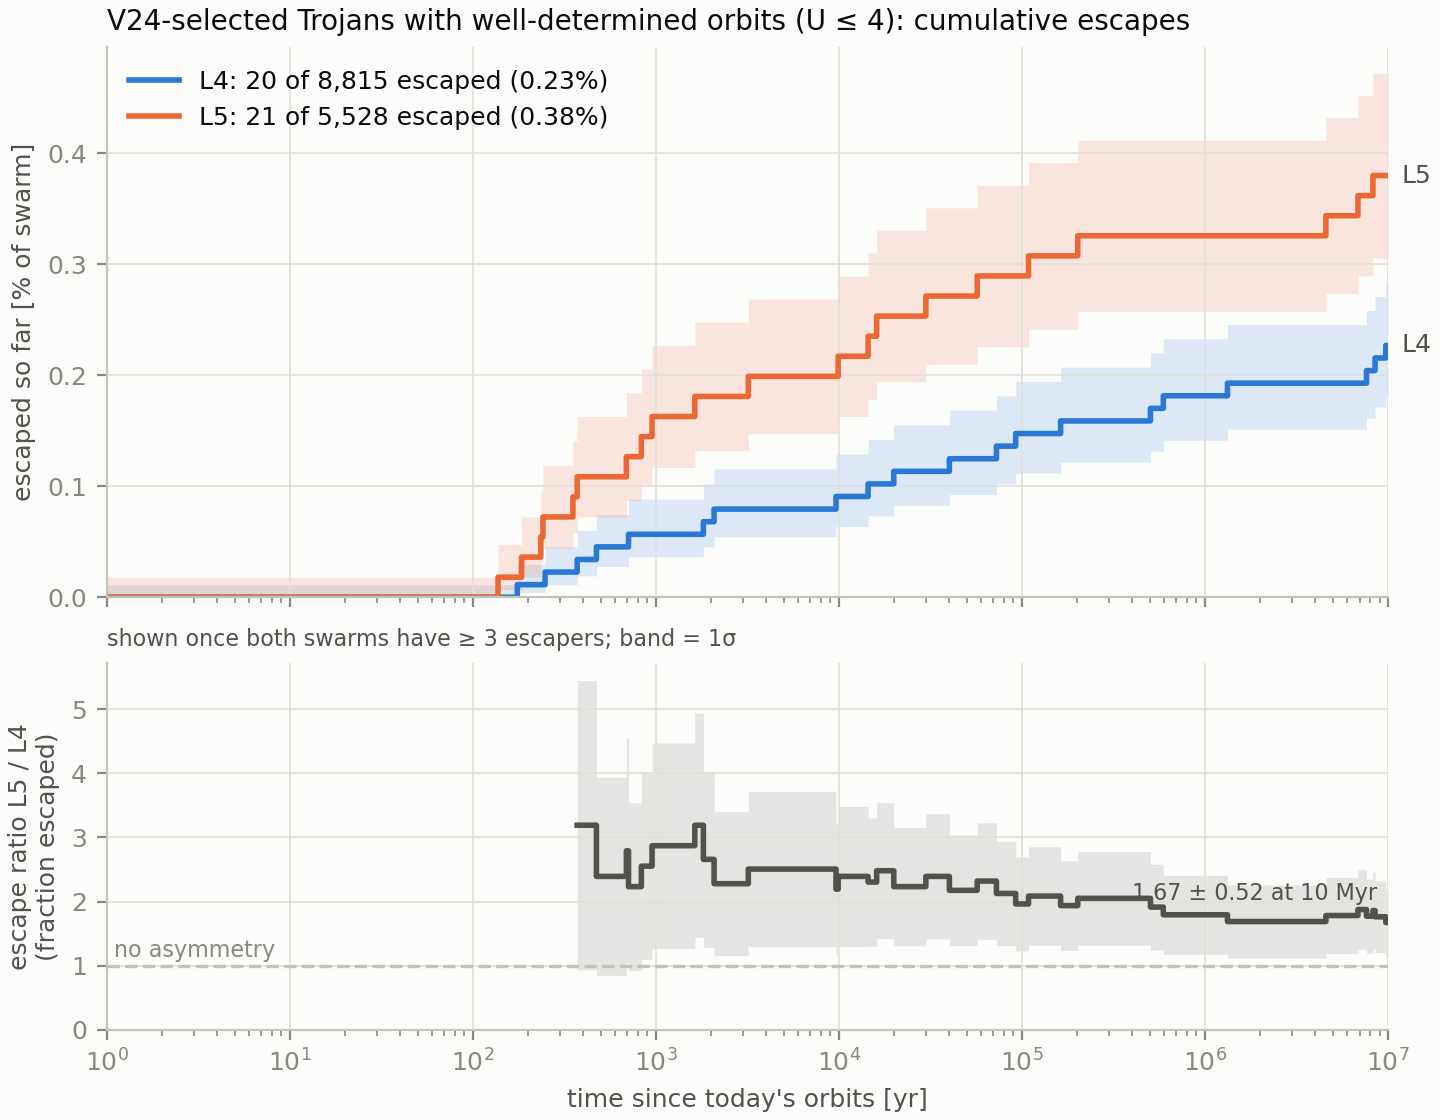
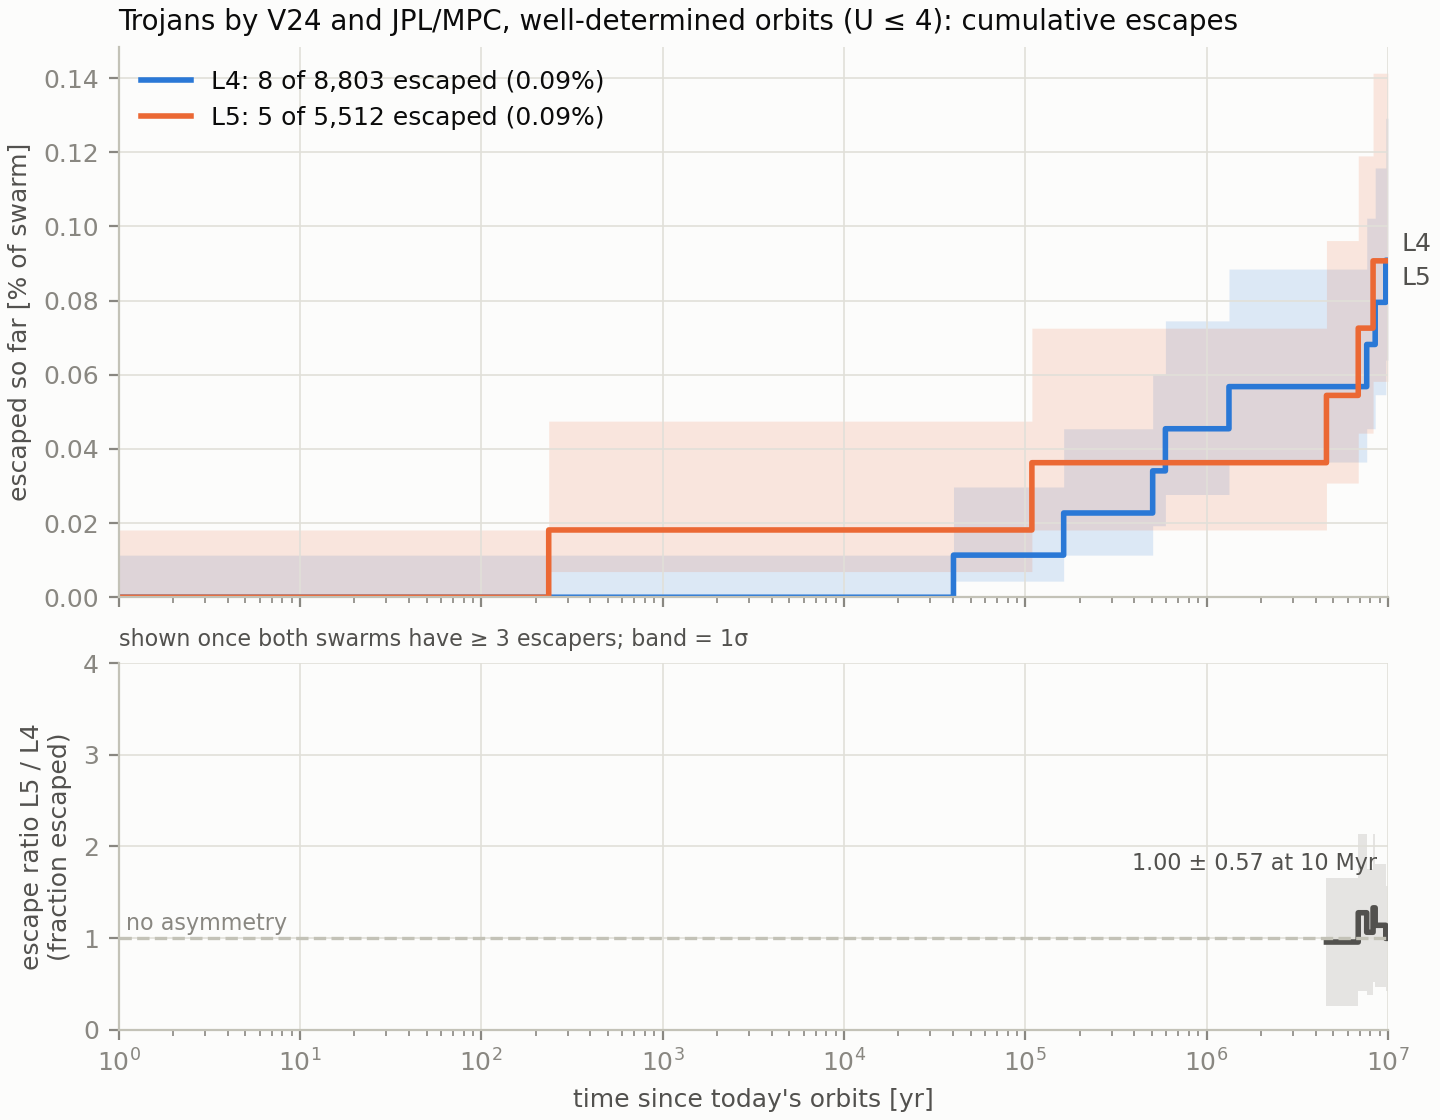
Redraw the U ladder on objects every catalogue calls a Trojan
Without the 28 comet-like V24-box-only objects, no cut up to U <= 7 shows an
L5/L4 escape asymmetry (1.00 +- 0.57 at U <= 4). Per-U escape is pooled across
swarms, since each U value holds too few escapers for a per-swarm ratio.

diff --git a/campaign/scripts/s3_uladder.py b/campaign/scripts/s3_uladder.py
@@ -2,11 +2,18 @@
 
 Reads a merged run and writes to campaign/reports/<run_id>/:
   fig_grand.png     cumulative % of each swarm escaped vs log time, with the running
-                    escape ratio L5/L4 underneath (V24-selected, U <= 4)
-  fig_uladder.png   escape fraction per U value (all H, and 14 < H < 15.5 to hold size
-                    fixed), per cumulative cut U <= k, the ratio L5/L4 per cut, and the
-                    number of objects per U
+                    escape ratio L5/L4 underneath (U <= 4)
+  fig_uladder.png   (a) escape fraction per U value, L4 and L5 pooled (all H, and
+                    14 < H < 15.5 to hold size fixed): where orbit error takes over;
+                    (b) the ratio L5/L4 for each cumulative cut U <= k: whether the cut
+                    drives the result; (c) the number of objects per U
   uladder.csv       the numbers behind fig_uladder
+
+Base sample: V24-selected objects that JPL (class TJN) or the MPC also call Trojans.
+Objects only V24's element box admits are comet-like interlopers (e 0.31-0.60, T_J
+2.25-2.82) that all leave within a few kyr, and would otherwise dominate the ratio
+(docs/INITIAL_CONDITIONS_KS.md). Per-U L5/L4 ratios are not drawn: each U value holds
+0-4 escapers per swarm, so they would be noise.
 
 U is the JPL orbit condition code (the MPC uncertainty parameter), see
 docs/CATALOGUE_DEFINITIONS.md. Escape is the first entry within 2.1 Hill radii of a
@@ -69,7 +76,7 @@ def ratio(k4, n4, k5, n5):
 
 def load(run_id):
     ev = pd.read_parquet(paths.merged_dir(run_id) / "events.parquet")
-    ev = ev[ev["v24_selected"]].copy()
+    ev = ev[ev["v24_selected"] & (ev["label_region"] != "V24")].copy()
     ev["U"] = pd.to_numeric(ev["condition_code"], errors="coerce").astype(int)
     ev["esc"] = ev["t_hill_record"].notna()
     t_end = json.loads((paths.run_dir(run_id) / "settings.json").read_text())["t_end_yr"]
@@ -81,6 +88,10 @@ def ladder(ev) -> pd.DataFrame:
     rows = []
     for u in U_VALUES:
         row = {"U": u}
+        for tag, mask in [("pool_", ev["U"] == u), ("pool_Hfix_", fixed_h & (ev["U"] == u))]:
+            n, k = int(mask.sum()), int(ev.loc[mask, "esc"].sum())
+            f, lo, hi = wilson(k, n)
+            row.update({f"{tag}n": n, f"{tag}k": k, f"{tag}f": f, f"{tag}lo": lo, f"{tag}hi": hi})
         for s in SWARMS:
             sw = ev["swarm"] == s
             for tag, mask in [("", sw & (ev["U"] == u)), ("Hfix_", sw & fixed_h & (ev["U"] == u)),
@@ -109,10 +120,14 @@ def fig_grand(ev, t_end, out):
         top.fill_between(grid, 100 * band[:, 1], 100 * band[:, 2], step="post", color=SWARM_COLOR[s], alpha=0.15, lw=0)
         top.step(grid, 100 * k / n, where="post", color=SWARM_COLOR[s], lw=2,
                  label=f"{s}: {k[-1]} of {n:,} escaped ({100 * k[-1] / n:.2f}%)")
-        top.annotate(s, (grid[-1], 100 * k[-1] / n), xytext=(5, 0), textcoords="offset points",
-                     va="center", color=TEXT_2, fontsize=9)
+    y4, y5 = (100 * curves[s][0][-1] / curves[s][1] for s in SWARMS)
+    close = abs(y4 - y5) < 0.05 * max(y4, y5, 1e-9)
+    for s, y, dy in [("L4", y4, -6 if close and y4 <= y5 else 6 if close else 0),
+                     ("L5", y5, -6 if close and y5 < y4 else 6 if close else 0)]:
+        top.annotate(s, (grid[-1], y), xytext=(5, dy), textcoords="offset points", va="center", color=TEXT_2,
+                     fontsize=9)
     top.set_ylabel("escaped so far [% of swarm]")
-    top.set_title("V24-selected Trojans with well-determined orbits (U ≤ 4): cumulative escapes", loc="left")
+    top.set_title("Trojans by V24 and JPL/MPC, well-determined orbits (U ≤ 4): cumulative escapes", loc="left")
     top.legend(loc="upper left")
     top.set_ylim(bottom=0)
 
@@ -126,7 +141,7 @@ def fig_grand(ev, t_end, out):
     bot.step(grid, r, where="post", color=TEXT_2, lw=2)
     bot.axhline(1, color=BASELINE, lw=1.2, ls="--")
     bot.annotate("no asymmetry", (grid[1], 1), xytext=(2, 3), textcoords="offset points", color=MUTED, fontsize=8)
-    bot.annotate(f"{r[-1]:.2f} ± {e[-1]:.2f} at {t_end / 1e6:.0f} Myr", (grid[-1], r[-1]), xytext=(-4, 8),
+    bot.annotate(f"{r[-1]:.2f} ± {e[-1]:.2f} at {t_end / 1e6:.0f} Myr", (grid[-1], r[-1] + e[-1]), xytext=(-4, 6),
                  textcoords="offset points", ha="right", color=TEXT_2, fontsize=8)
     bot.set_ylabel("escape ratio L5 / L4\n(fraction escaped)")
     bot.set_ylim(0, max(4, np.nanmax(r + e) * 1.05))
@@ -140,49 +155,49 @@ def fig_grand(ev, t_end, out):
     return {"L4": (int(k4[-1]), n4), "L5": (int(k5[-1]), n5), "ratio": (float(r[-1]), float(e[-1]))}
 
 
-def _rate_panel(ax, lad, tag, title):
-    offset = {"L4": -0.12, "L5": 0.12}
+def fig_uladder(lad, out):
+    fig, axes = plt.subplots(3, 1, figsize=(7.2, 8.2), sharex=True, height_ratios=[3, 2.4, 2],
+                             constrained_layout=True)
     floor = 3e-5
-    for s in SWARMS:
-        x = lad["U"] + offset[s]
-        f, lo, hi = lad[f"{tag}f_{s}"], lad[f"{tag}lo_{s}"], lad[f"{tag}hi_{s}"]
-        some = lad[f"{tag}k_{s}"] > 0
+    ax = axes[0]
+    for tag, dx, label, face in [("pool_", -0.1, "all H", TEXT_2), ("pool_Hfix_", 0.1, f"{H_FIXED[0]} < H < {H_FIXED[1]}", SURFACE)]:
+        x = lad["U"] + dx
+        f, lo, hi, k = lad[f"{tag}f"], lad[f"{tag}lo"], lad[f"{tag}hi"], lad[f"{tag}k"]
+        some = k > 0
         ax.errorbar(x[some], f[some], yerr=[f[some] - np.maximum(lo[some], floor), hi[some] - f[some]], fmt="o",
-                    ms=6, color=SWARM_COLOR[s], mec=SURFACE, mew=1, elinewidth=1.2, capsize=0, label=s)
-        none = (~some) & (lad[f"{tag}n_{s}"] > 0)
-        ax.errorbar(x[none], np.full(none.sum(), floor), yerr=[np.zeros(none.sum()), hi[none] - floor], fmt="o",
-                    ms=6, mfc=SURFACE, color=SWARM_COLOR[s], elinewidth=1.2, capsize=0)
+                    ms=7, color=TEXT_2, mfc=face, mew=1.4, elinewidth=1.2, capsize=0, label=label)
+        none = ~some
+        ax.errorbar(x[none], np.full(none.sum(), floor), yerr=[np.zeros(none.sum()), hi[none] - floor], fmt="v",
+                    ms=6, color=MUTED, mfc=face, elinewidth=1, capsize=0)
     ax.set_yscale("log")
     ax.set_ylim(floor * 0.7, 1)
     ax.set_ylabel("fraction escaped\nin 10 Myr")
-    ax.set_title(title, loc="left")
+    ax.set_title("(a) escape per U value, L4 + L5 pooled: where orbit error takes over", loc="left")
+    ax.legend(loc="upper left")
+    ax.annotate("▼ = no escaper; bar = 1σ upper limit", (0.99, 0.04), xycoords="axes fraction", ha="right",
+                color=MUTED, fontsize=8)
 
-
-def fig_uladder(lad, out):
-    fig, axes = plt.subplots(5, 1, figsize=(7.2, 11.5), sharex=True, height_ratios=[3, 3, 3, 2.2, 2],
-                             constrained_layout=True)
-    _rate_panel(axes[0], lad, "", "(a) each U value on its own, all H  (open = no escaper; bar = 1σ upper limit)")
-    axes[0].legend(loc="upper left")
-    _rate_panel(axes[1], lad, "Hfix_", f"(b) same, only {H_FIXED[0]} < H < {H_FIXED[1]}: size held fixed")
-    _rate_panel(axes[2], lad, "cum_", "(c) cumulative cut: everything with U ≤ k")
-
-    ax = axes[3]
+    ax = axes[1]
     ok = lad["cum_ratio"].notna()
-    ax.errorbar(lad["U"][ok], lad["cum_ratio"][ok], yerr=lad["cum_ratio_err"][ok], fmt="o", ms=6, color=TEXT_2,
+    ax.errorbar(lad["U"][ok], lad["cum_ratio"][ok], yerr=lad["cum_ratio_err"][ok], fmt="o", ms=7, color=TEXT_2,
                 mec=SURFACE, mew=1, elinewidth=1.2, capsize=0)
+    for u, r, n4, n5 in zip(lad["U"][ok], lad["cum_ratio"][ok], lad["cum_k_L4"][ok], lad["cum_k_L5"][ok]):
+        ax.annotate(f"{n4}:{n5}", (u, r), xytext=(8, 0), textcoords="offset points", va="center",
+                    color=MUTED, fontsize=7)
     ax.axhline(1, color=BASELINE, lw=1.2, ls="--")
     ax.set_ylabel("escape ratio L5 / L4\nfor U ≤ k")
-    ax.set_title("(d) the asymmetry each cut would report", loc="left")
+    ax.set_title("(b) the asymmetry each cut U ≤ k would report (labels: L4:L5 escapers)", loc="left")
 
-    ax = axes[4]
+    ax = axes[2]
     w = 0.36
-    for s, dx in zip(SWARMS, (-w / 2, w / 2)):
-        ax.bar(lad["U"] + dx, lad[f"n_{s}"], width=w - 0.04, color=SWARM_COLOR[s], label=s)
+    for sw, dx in zip(SWARMS, (-w / 2, w / 2)):
+        ax.bar(lad["U"] + dx, lad[f"n_{sw}"], width=w - 0.04, color=SWARM_COLOR[sw], label=sw)
     ax.set_yscale("log")
     ax.set_ylabel("objects")
-    ax.set_title("(e) how many objects have each U", loc="left")
+    ax.set_title("(c) how many objects have each U", loc="left")
+    ax.legend(loc="upper right", ncol=2)
     ax.set_xticks(U_VALUES)
-    ax.set_xlabel("U (orbit uncertainty, 0 = best, 9 = worst)   ·   (c), (d): the cut U ≤ k")
+    ax.set_xlabel("U (orbit uncertainty, 0 = best, 9 = worst)   ·   (b): the cut U ≤ k")
     for a in axes:
         a.axvspan(4.5, 9.6, color=GRID, alpha=0.35, lw=0, zorder=0)
     axes[0].annotate("excluded by the current cut", (4.6, 0.5), color=MUTED, fontsize=8, va="top")
@@ -203,8 +218,8 @@ def main() -> None:
     fig_uladder(lad, out)
 
     print(f"grand (U <= 4): {grand}")
-    cols = ["U", "n_L4", "k_L4", "n_L5", "k_L5", "Hfix_n_L4", "Hfix_k_L4", "Hfix_n_L5", "Hfix_k_L5",
-            "cum_f_L4", "cum_f_L5", "cum_ratio", "cum_ratio_err"]
+    cols = ["U", "n_L4", "k_L4", "n_L5", "k_L5", "pool_f", "pool_Hfix_n", "pool_Hfix_k",
+            "cum_k_L4", "cum_k_L5", "cum_ratio", "cum_ratio_err"]
     print(lad[cols].to_string(index=False, float_format=lambda v: f"{v:.4g}"))
 
 

diff --git a/docs/CATALOGUE_DEFINITIONS.md b/docs/CATALOGUE_DEFINITIONS.md
@@ -168,29 +168,46 @@ selection, MPC and our label disagree for two objects (`label_comparison.csv`).
 
 ## 5. What the U ladder shows (Step 2, `campaign/scripts/s3_uladder.py`)
 
-Figures: `campaign/reports/pilot_10myr/fig_grand.png` and `fig_uladder.png`; numbers in
-`uladder.csv`.
+- Figures: `campaign/reports/pilot_10myr/fig_grand.png` and `fig_uladder.png`.
+- Numbers: `uladder.csv`.
+- Base sample: V24-selected objects that JPL or MPC also call Trojans. The 28
+  comet-like objects that only V24's element box admits are removed; see
+  `docs/INITIAL_CONDITIONS_KS.md` §3. A first version of this ladder included them
+  and showed L5/L4 ratios of 1.6–2.1. That ratio came entirely from those objects.
 
-- **The asymmetry doesn't depend on where we cut, up to U ≤ 7.** The escape ratio L5/L4
-  for the cut U ≤ k is 1.6–2.1 for every k from 0 to 7 (1.67 ± 0.52 at k = 4). It
-  falls to 1.25 at k = 8 and inverts to 0.39 at k = 9. So U ≤ 4 is a conservative,
-  safe cut; U ≤ 5, 6 or 7 would report the same asymmetry.
-- **Orbit error only takes over at U ≥ 8.** Taking each U on its own, U = 1–7 escape
-  at ≈ 1% in 10 Myr, U = 8 at ≈ 3.5% and U = 9 at ≈ 20%. At fixed size
-  (14 < H < 15.5) U = 9 still escapes at 23%, so this is the orbit fit, not size. It
-  matches §2.2, where σ_a reaches the whole tadpole at U = 8.
-- **Unexpected: U = 1–4 escape ≈ 5× more often than U = 0**, at fixed H as well
-  (0.39% vs 0.11%). Yet their σ_a is < 0.3% of the tadpole, so orbit error can't be
-  the reason. What differs is *which* orbits they are. At 14 < H < 15.5 the U = 1–4
-  objects have median I = 17° against 11° for U = 0, and three times as many sit in
-  the unstable edge (C > 2: 0.26% vs 0.08%). The likely reading is discovery order:
-  surveys found the cold, stable Trojans first, and the hotter, marginal ones later,
-  so they still have short arcs. This is a hypothesis; it hasn't been tested.
-- **Consequence for Step 3.** Inclination distributions below completeness are shaped
-  by discovery order. The KS tests should be quoted on the complete sample.
+**Orbit error takes over at U = 8.**
+- Per U value, with L4 and L5 pooled, the escape fraction in 10 Myr is:
+  - 0.06% at U = 0;
+  - 0.2–0.8% at U = 1–4;
+  - about 1% at U = 6–7;
+  - 3% at U = 8;
+  - 19% at U = 9.
+- At fixed size (14 < H < 15.5) U = 9 still escapes at 23%, so this is the orbit fit,
+  not size. It matches §2.2: at U = 8, σ_a is about the whole tadpole width.
 
-**Correction (Step 3, same day).** The 1.6–2.1 ratios above include 12 L4 and 16 L5
-comet-like interlopers. V24's element box admits them, but JPL and MPC don't call them
-Trojans, and all of them escape within a few kyr. For objects that V24 and JPL/MPC both
-call Trojans, the ratio is 1.00 ± 0.57. The conclusion about where to cut U stands; see
-`docs/INITIAL_CONDITIONS_KS.md` §3.
+**No cut up to U ≤ 7 shows an asymmetry.** The escape ratio L5/L4 for each cut U ≤ k:
+
+| Cut | Ratio L5/L4 | L4:L5 escapers |
+|---|---|---|
+| U ≤ 0 | 1.22 ± 0.93 | 4 : 3 |
+| U ≤ 4 | 1.00 ± 0.57 | 8 : 5 |
+| U ≤ 5 | 0.99 ± 0.57 | |
+| U ≤ 7 | 0.80 ± 0.40 | |
+| U ≤ 8 | 0.59 ± 0.24 | |
+| U ≤ 9 | 0.25 ± 0.05 | |
+
+- Adding U = 8 fakes an L4 excess. L4 holds 3× more U = 8 objects than L5 (recent
+  short-arc discoveries), and they escape because their orbits are unknown.
+- **Keep U ≤ 4 (or U ≤ 5).**
+- **Per-U L5/L4 ratios are not shown.** Each U value holds 0–4 escapers per swarm, so
+  a ladder for each U can test orbit quality (panel a) but not the asymmetry.
+
+**U = 1–4 escape several times more often than U = 0, although their σ_a is < 0.3% of
+the tadpole.**
+- At 14 < H < 15.5, U = 1–4 objects have median I = 17° against 11° for U = 0.
+- Three times as many of them sit in the unstable edge.
+- The likely reading is discovery order: surveys found the cold, stable Trojans first.
+- This is untested.
+
+**Consequence.** Inclination distributions below completeness are shaped by discovery
+order. The KS tests are quoted on the complete sample (Step 3).

diff --git a/docs/INITIAL_CONDITIONS_KS.md b/docs/INITIAL_CONDITIONS_KS.md
@@ -108,9 +108,17 @@ Removing them gives **1.00 ± 0.57**. Applying V24's cleaning (dropping objects 
 within 1 Myr) gives 1.20 ± 0.91.
 
 **Correction to earlier numbers.** The pilot report's headline escape ratio (1.67 ± 0.52;
-`reports/pilot_10myr/report.md`) and the Step 2 ladder ratios (1.6–2.1) both include
-these interlopers. The U ladder's conclusion about the U cut still stands. The
-asymmetry it protected does not.
+`reports/pilot_10myr/report.md`) includes these interlopers. The U ladder
+(`CATALOGUE_DEFINITIONS.md` §5) has been redrawn without them. Every cut up to U ≤ 7
+now gives a ratio consistent with 1.
+
+**What "interloper" means here.** It is an operational definition, based on the
+catalogue labels, not on dynamics. An interloper is an object that passes V24's
+element box at the epoch but is neither JPL class TJN nor on the MPC Trojan list
+(`label_region == "V24"`). In this sample all 28 have e = 0.31–0.60 and
+T_J = 2.25–2.82. 18 of them have U = 0, so this is not an orbit-quality problem, and
+no U cut removes them. V24's dynamical definition (a 1 Myr libration check) removes
+the same objects and gives 1.20 ± 0.91.
 
 ## 4. What this means for the capture question
 
